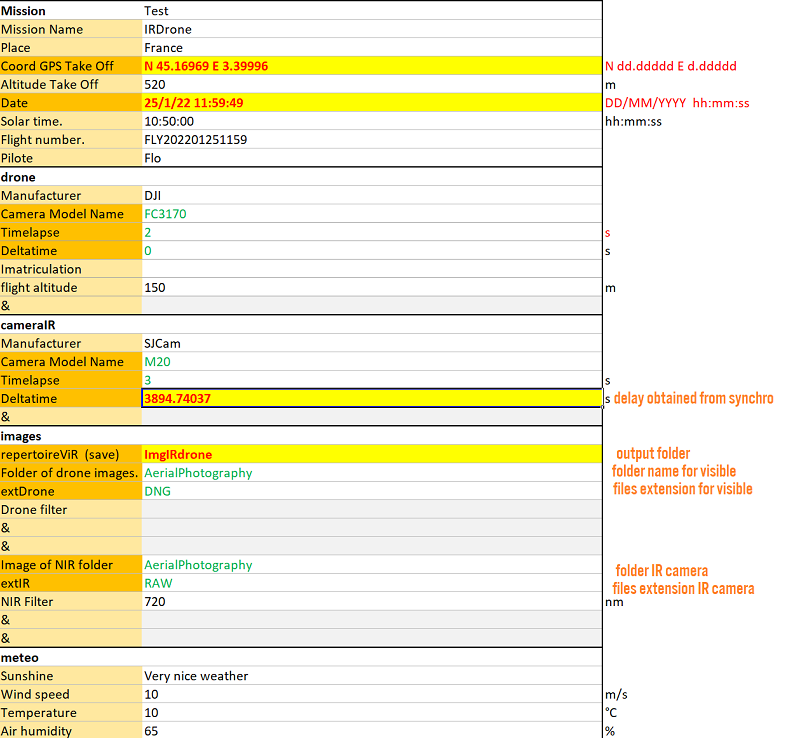
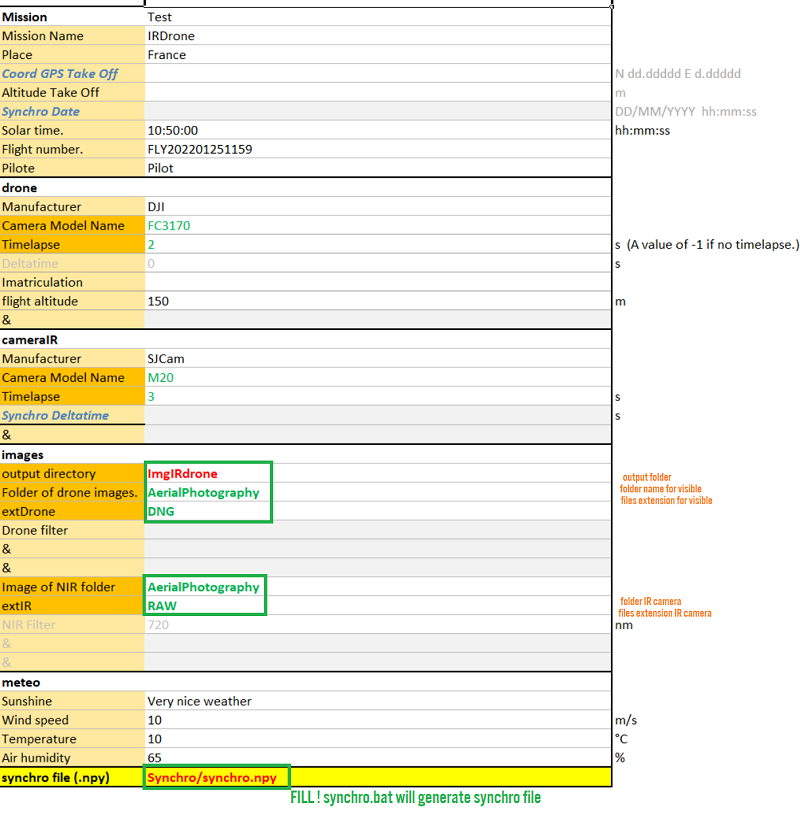
#3 support synchro.npy in excel configuration
update documentation with ppt links

diff --git a/utils/utils_IRdrone.py b/utils/utils_IRdrone.py
@@ -162,10 +162,24 @@ def extractFlightPlan(dirPlanVol, mute=True):
     typeDrone = None
     if osp.basename(dirPlanVol).lower().endswith(".xlsx"):
         planVol = readFlightPlan(dirPlanVol, mute=mute)
+        
+        dateMission, deltaTimeIR, coord_GPS_take_off = extract_synchro_from_dict(None)
+        if planVol["synchro"] is not None:
+            synchro_file = osp.join(osp.dirname(dirPlanVol), planVol["synchro"])
+            assert osp.isfile(synchro_file), "no synchro file {}".format(synchro_file)
+            di_synchro = np.load(synchro_file, allow_pickle=True).item()
+            dateMission, deltaTimeIR, coord_GPS_take_off = extract_synchro_from_dict(di_synchro)
+            if coord_GPS_take_off is not None:
+                planVol['mission']['coord GPS Take Off'] = coord_GPS_take_off
+            if dateMission is not None:
+                planVol['mission']['date'] = dateMission
+            if deltaTimeIR is not None:
+                planVol['mission']['deltatime'] = deltaTimeIR
         dirNameIRdrone = planVol['images']['repertoireViR  (save)']  # folder for save photography  VIR,  NDVI (output)
         dirNameDrone = planVol['images']['repertoireDrone']  # Drone photography folder   (input)
         dirNameIR = planVol['images']['repertoireIR']  # IR photography folder (input)
-        dateMission = planVol['mission']['date']  # date of flight > format DD MM et YYYY
+        if planVol['mission']['date'] is not None:
+            dateMission = planVol['mission']['date']  # date of flight > format DD MM et YYYY
         typeDrone = planVol['drone']['type']  # type of drone (see in the Exif tag of the image of the drone)
         extDrone = planVol['images']['extDrone']  # file format Vi
         # typeIR = planVol['cameraIR']['type']  # type of camera in use (see in the Exif tag of the image of the IR camera)
@@ -173,7 +187,9 @@ def extractFlightPlan(dirPlanVol, mute=True):
         timeLapseIR = float(planVol['cameraIR']['timelapse'])  # Time Lapse of IR camera
         extIR = planVol['images']['extIR']  # file format  IR
         deltaTimeDrone = float(planVol['drone']['deltatime'])  # decalage horloge caméra du drone / horloge de référence
-        deltaTimeIR = float(planVol['cameraIR']['deltatime'])  # decalage horloge caméra infrarouge /horloge de référence
+        if planVol['cameraIR']['deltatime'] is not None:
+            deltaTimeIR = float(planVol['cameraIR']['deltatime'])  # decalage horloge caméra infrarouge /horloge de référence
+
         regex_nir, regex_drone = "*.%s"%extIR, '*.%s'%extDrone
     elif osp.basename(dirPlanVol).lower().endswith(".json"):
         with open(dirPlanVol, 'r') as openfile:
@@ -327,7 +343,8 @@ def readFlightPlan(pathPlanVolExcel, mute=None):
                     'vent': sheet.cell(numeteo + 2, 2).value,
                     'temperature': sheet.cell(numeteo + 3, 2).value,
                     'humidite': sheet.cell(numeteo + 4, 2).value
-                    }
+                    },
+                'synchro': sheet.cell(numeteo + 5, 2).value
                }
     workbook.close()
 

diff --git a/readme.md b/readme.md
@@ -37,20 +37,20 @@ Download our [sample folder](https://drive.google.com/drive/folders/1khi0WdWyZ6H
 
 
 ## **Tutorial** : Step by step processing 
-* Once finished, offload your SD cards from IR & Visible cameras into the same folder:
+* 1/ Once finished, offload your SD cards from IR & Visible cameras into the same folder:
   * In `AerialPhotography` where you put all pictures from the flight phase (*the folder name can be changed in the configuration excel*) 
   * In `Synchro` folder where you put all picture from the synchronization phase
-* Create configuration file ( **.xlsx** or **.json**)
-  * an excel based on the provided template [Templates/config.xlsx](./Templates/config.xlsx), fill mandatory information.
+* 2/ Create configuration file from the template ( **.xlsx** for beginers or **.json** for advanced users)
+  * based on excel on the provided template [Templates/config.xlsx](./Templates/config.xlsx), fill mandatory information in green and red.
   * another option is to create a json configuration from the following template [Templates/config.json](./Templates/config.json). 
-* double click on `synchro.bat` and select the `Synchro` folder
+* 3/ Double click on `synchro.bat` and select the `Synchro` folder. 
+  * This will open a graph, please make sure that the black and orange curves overlap correctly. Then you can close the graph.
+  * This will generate a `syncho.npy` binary file  in the `Synchro` folder ... which you will re-use as a configuration parameter
 
 ![synchronization validation](./illustrations/synchro.png)
 
 ### JSON configuration approach
 
-* You can use the `input` key (or `rootdir`) to provide a direct link to a specific folder (that would allow you to store all configurations at a unique place... including keeping your projects configurations under git revision).
-* Regexp use are suggested in `visible` or `nir` keys to search the images. Please not that this way you can use 2 different folders for NIR and visible images.
 ```
 {
   "synchro":"Synchro/synchro.npy",
@@ -61,27 +61,21 @@ Download our [sample folder](https://drive.google.com/drive/folders/1khi0WdWyZ6H
   "nir_timelapse": 3.0,
 }
 ```
-* `synchro` field  links to the synchronization file obtained when running `synchro.bat` (double click on `synchro.bat` and select the `Synchro` folder)
-* optional fields `synchro_deltatime`, `synchro_date`, `coord_GPS_take_off` exists to override synchronization parameters.
-
+* **`synchro` field  links to the synchronization file obtained when running `synchro.bat` previously**
+* You can change the `output` folder here. 
+* glob regexp use are suggested in `visible` or `nir` keys to search the images. *Please not that this way you can use 2 different folders for NIR and visible images.*
 
 ### Excel configuration approach
-* There are some fields where, you will need synchronization info so everything runs correctly.
-
-here you have to copy/paste into the excel 
-  * `3894.74`  = delta time.
-  * `25/01/2022 11:59:49` = date
-  * `N 45.16954 E 3.40005` = Coord GPS Take Off
-
+* You can simply put the relative path to `synchro.npy` and you should be good to go
 
 ![configuration excel](./illustrations/configuration_excel.png)
 
 
-* Now you're ready to process your images. Double click on `run.bat` and select the configuration file (either .json or .xlsx). 
-* Check the altitude profile displayed.
+* 4/ Now you're ready to process your images. Double click on `run.bat` and select the configuration file (either .json or .xlsx). 
+* 5/ Check the altitude profile displayed.
 
 ![flight altitude extracted from Exif data](./illustrations/flight_altitude_profile.png)
-* Confirm you want to run processing on your images. Then be very patient, your files will be processed and stored in the `ImgIRdrone` folder.
+* 6/ Confirm you want to run processing on your images. Then be very patient, your files will be processed and stored in the `ImgIRdrone` folder.
 
 ![Fused results visible and NIR to provied NDVI for instance](./illustrations/results.png)
 
@@ -104,11 +98,33 @@ here you have to copy/paste into the excel
 ## Synchronization
 
 * Aruco (=QR code) chart can be downloaded [here](https://drive.google.com/file/d/1rMB6LjY2Mi3gQDq5Mr6PrtMRRrahtkRC/view?usp=sharing) and has to be printed to A4 or A3 paper
-* [full procedure description](https://drive.google.com/drive/folders/1Uk-eWBwteD2reOCdT0kngCWgcddz4C5s?usp=sharing) is available here.
+
+* Several procedures were tested:
+  * Spinning the chart under the static drone **!RECOMMENDED!**
+    * [full procedure here](https://docs.google.com/presentation/d/1h4Z3gMXSZpbntx-dJ7GK4vR63rED0lpN/edit?usp=sharing&ouid=107424034863786906577&rtpof=true&sd=true)
+    * [arduino code for the spinning table](https://drive.google.com/file/d/1ECo0p3RrOPgs_Xkl1UeffkmGnplZRWYM/view?usp=sharing)
+  * Rotating the drone above the static chart: *more complicated to manipulate, not recommended* [description](https://drive.google.com/drive/folders/1Uk-eWBwteD2reOCdT0kngCWgcddz4C5s?usp=sharing) is available here.
+* Sample synchro data can be downloaded from [here](https://drive.google.com/drive/folders/10SCdV_wb57L6ODKlqpWORkE1B0559aUL?usp=sharing) 
 * Copy the selected synchronization images into a "Synchro" folder -> visible & NIR images (expected .RAW and .DNG files by default).
 * Double click on [synchro.bat](synchro.bat). *(Advanced users can use CLI obviously in case of other images format)* 
-* Copy paste the delay result to your configuration excel in  `cameraIR` / `deltatime` . You can then close the window.
-* Sample synchro data can be downloaded from [here](https://drive.google.com/drive/folders/10SCdV_wb57L6ODKlqpWORkE1B0559aUL?usp=sharing) 
+* Unless you want to do manual manipulations, do not paste the delay result to your configuration excel in  `cameraIR` / `deltatime` . You can simply close the window, the program saved a synchro.npy file in the Synchro folder!
+
+
+### Manual fallback : forcing parameters
+* Mastering the config.json:
+  * *optional: You can use the `input` key (or `rootdir`) to provide a direct link to a specific folder (that would allow you to store all configurations at a unique place... including keeping your projects configurations under git revision).*
+  * optional fields in config.json, these fields exist to override synchronization parameters coming from synchro.npy
+    * `synchro_deltatime`
+    * `synchro_date`
+    * `coord_GPS_take_off` 
+* In the excel template, there are some fields marked in blue where you can also override the values from synchro.npy
+
+for instance, you have to copy/paste into the excel 
+  * `3894.74`  = delta time.
+  * `25/01/2022 11:59:49` = date
+  * `N 45.16954 E 3.40005` = Coord GPS Take Off
+
+
 
 ## Alignment and Fusion
 * Data can be processed by double cliking on `run.bat`. This will use [run.py](`run.py`) to select a given excel file. Advanced users can also use command line interface [automatic_registration.py](automatic_registration.py) 
